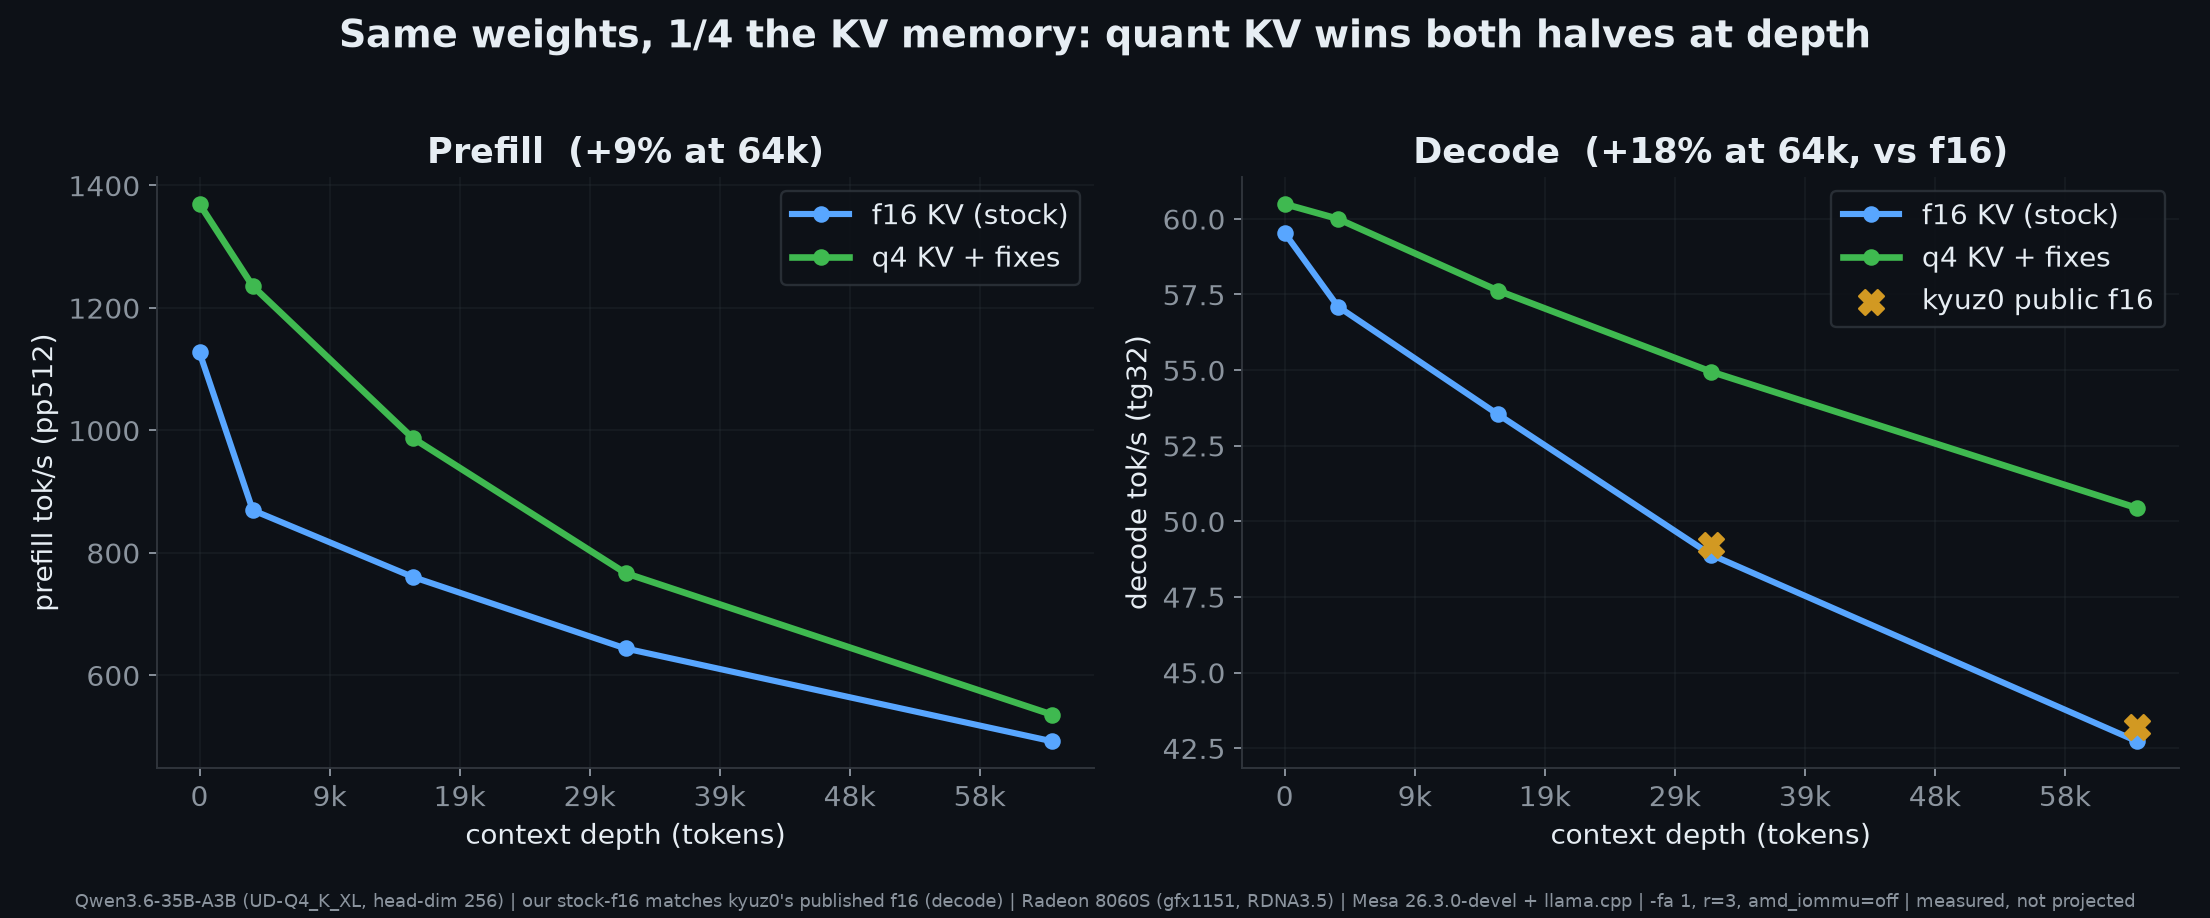
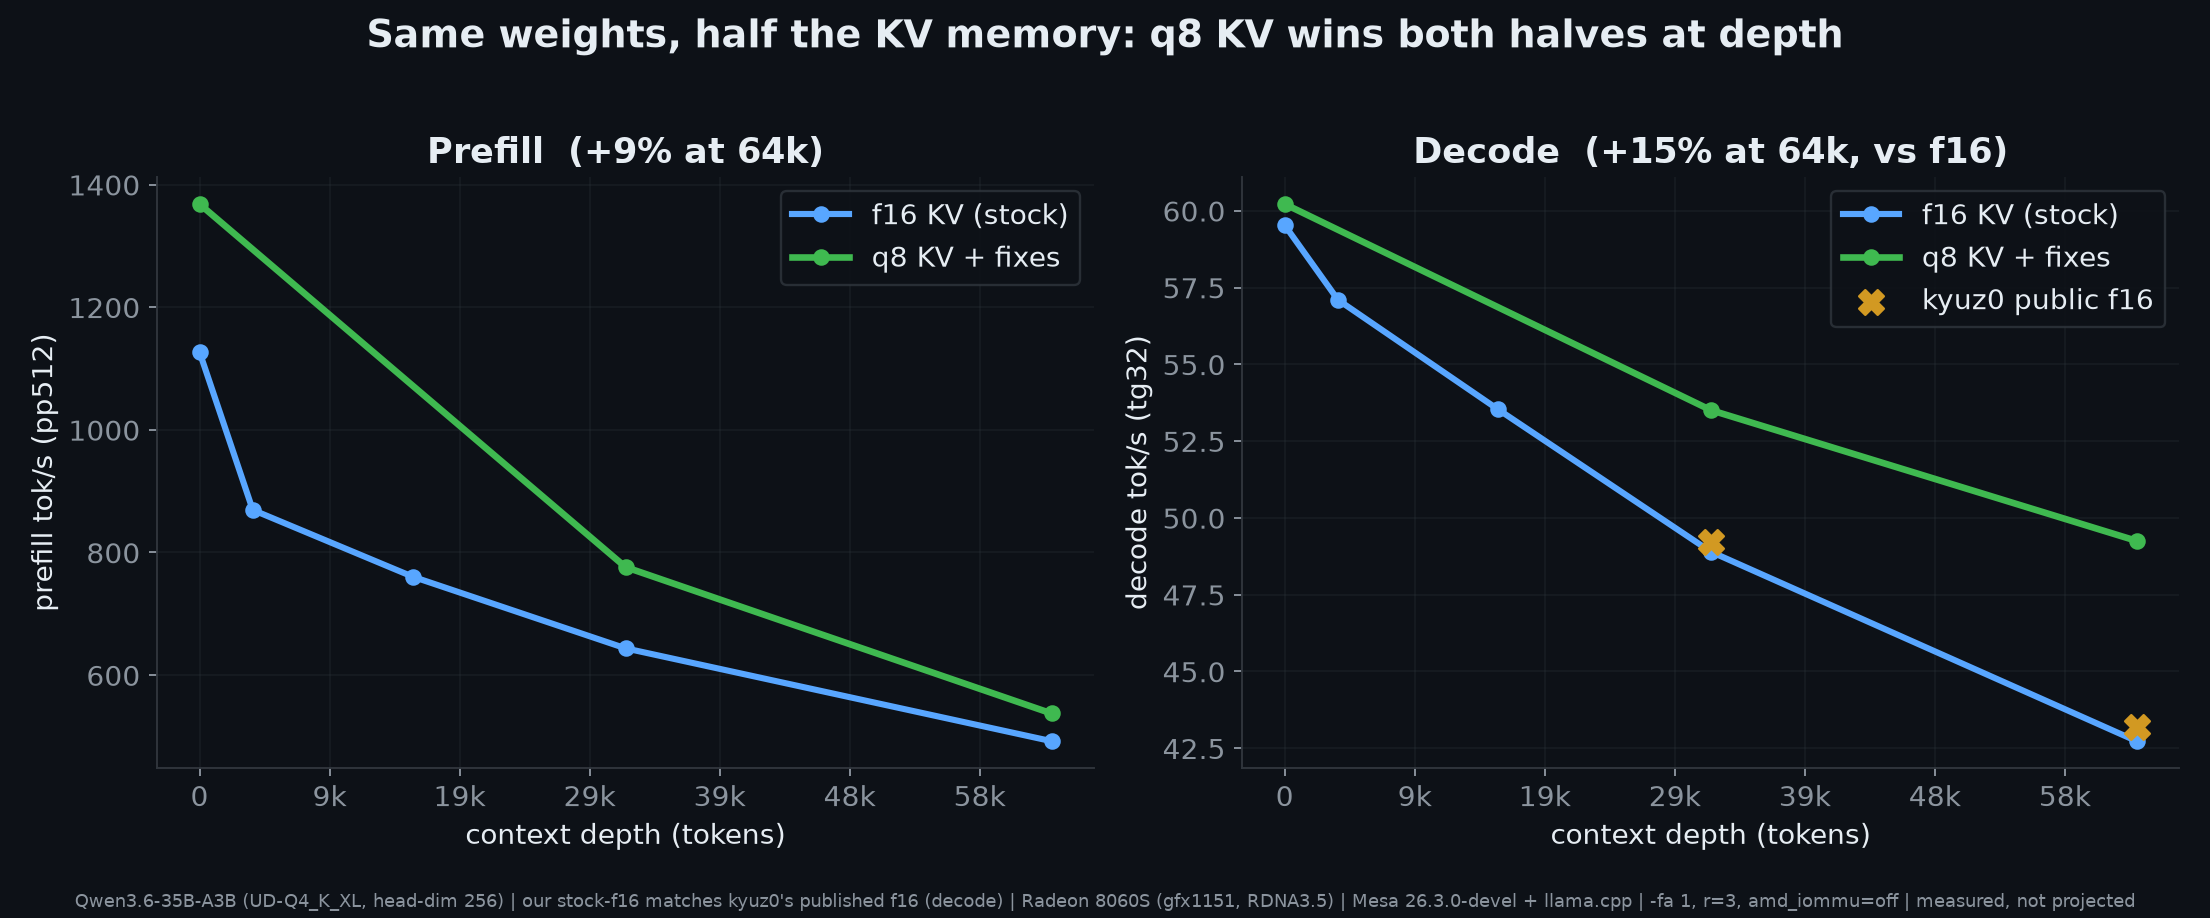
Graphs: q8-only references + new dense-7B chart; name mmid-fullstack as the build-from-source branch
- All reference graphs now f16-vs-q8 (chart 1 prefill, chart 2 same-quant, chart 3 decode)
- New chart 4: dense Qwen2.5-7B q8 vs f16 (+91% prefill / +22% decode @64k) - FA fix isn't MoE-specific
- README tables/captions switched to q8 (Coder 2.66x, 35B +9%/+15%)
- BUILD.md + README: name mmid-fullstack explicitly as the full Vulkan stack to build from source
- 'Getting the binaries': portable-tarball download (v0.1 release) + ghcr + build paths

diff --git a/benchmarks/scripts/make_graphs.py b/benchmarks/scripts/make_graphs.py
@@ -1,5 +1,5 @@
 #!/usr/bin/env python3
-import re, matplotlib
+import re, os, matplotlib
 matplotlib.use("Agg")
 import matplotlib.pyplot as plt
 from matplotlib.ticker import FuncFormatter
@@ -16,6 +16,7 @@ FOOT="Radeon 8060S (gfx1151, RDNA3.5) | Mesa 26.3.0-devel + llama.cpp | -fa 1, r
 
 def parse(path):
     out={}
+    if not os.path.exists(path): return out
     for ln in open(path):
         if "|" not in ln or ("pp" not in ln and "tg" not in ln): continue
         cells=[c.strip() for c in ln.split("|")]
@@ -38,23 +39,24 @@ def style(ax):
     ax.xaxis.set_major_formatter(FuncFormatter(lambda x,_: f"{int(x/1024)}k" if x>=1024 else "0"))
     ax.set_xlabel("context depth (tokens)")
 
-P1="/home/alloy/kvoff-p1-results"; P2="/home/alloy/kvoff-p2-results"
-def parseM(name):  # merge Phase 1 (0-32k) + Phase 2 (0,64k) per arm; iommu-off canonical
-    d=parse(f"{P1}/{name}"); d.update(parse(f"{P2}/{name}")); return d
-c_f16=parseM("base_coder30b_f16.md"); c_q4=parseM("ceil_coder30b_q4.md"); c_q8=parseM("ceil_coder30b_q8.md")
-x_f16=parseM("stock_q4kxl_f16.md"); x_q4=parseM("ceil_q4kxl_q4.md")
-qc_f16=parseM("base_qwen35b_f16.md"); qc_q8=parseM("ceil_qwen35b_q8.md"); qc_q4=parseM("ceil_qwen35b_q4.md")
+P1="/home/alloy/kvoff-p1-results"; P2="/home/alloy/kvoff-p2-results"; P3="/home/alloy/kvoff-q8supp-results"
+def parseM(name):  # merge Phase 1 (0-32k) + Phase 2 (0,64k) + q8 supplement per arm; iommu-off canonical
+    d=parse(f"{P1}/{name}"); d.update(parse(f"{P2}/{name}")); d.update(parse(f"{P3}/{name}")); return d
+# q8 is the featured reference quant (shipping-PR scope, higher KV quality, same win as q4)
+c_f16=parseM("base_coder30b_f16.md"); c_q8=parseM("ceil_coder30b_q8.md")
+x_f16=parseM("stock_q4kxl_f16.md"); x_q8=parseM("ceil_q4kxl_q8.md")
+qc_f16=parseM("base_qwen35b_f16.md"); qc_q8=parseM("ceil_qwen35b_q8.md")
+d_f16=parseM("densestock_dense7b_f16.md"); d_q8=parseM("denseceil_dense7b_q8.md")
 
 # ---- Chart 1: Coder-30B prefill headline (2.66x) ----
 fig,ax=plt.subplots(figsize=(9,5.2))
-ds,y1=curve(c_f16,"pp"); _,y2=curve(c_q4,"pp"); _,y8=curve(c_q8,"pp")
+ds,y1=curve(c_f16,"pp"); _,y8=curve(c_q8,"pp")
 ax.plot(ds,y1,"o-",color=F16,lw=2.6,ms=7,label="f16 KV (stock)")
-ax.plot(ds,y8,"s--",color=ACC,lw=2.4,ms=6,label="q8 KV + fixes")
-ax.plot(ds,y2,"o-",color=FIX,lw=2.8,ms=7,label="q4 KV + fixes")
+ax.plot(ds,y8,"o-",color=FIX,lw=2.8,ms=7,label="q8 KV + fixes")
 r=y8[-1]/y1[-1]
 ax.annotate(f"{r:.2f}x\nfaster",(ds[-1],y8[-1]),xytext=(-70,-4),textcoords="offset points",
-    color=ACC,fontweight="bold",fontsize=15,ha="center",
-    arrowprops=dict(arrowstyle="->",color=ACC,lw=1.6))
+    color=FIX,fontweight="bold",fontsize=15,ha="center",
+    arrowprops=dict(arrowstyle="->",color=FIX,lw=1.6))
 ax.set_title("Quantized KV prefill is 2.66x faster than f16 at 64k context")
 ax.set_ylabel("prefill throughput (tok/s)"); style(ax)
 ax.legend(facecolor=BG,edgecolor=GRID,labelcolor=FG,loc="upper right")
@@ -63,19 +65,19 @@ fig.tight_layout(rect=[0,.04,1,1]); fig.savefig("/home/alloy/graphs/01_coder30b_
 
 # ---- Chart 2: 35B Q4_K_XL same-quant (prefill + decode) + kyuz0 decode overlay ----
 fig,(a1,a2)=plt.subplots(1,2,figsize=(13,5.4))
-ds,y1=curve(x_f16,"pp"); _,y2=curve(x_q4,"pp")
+ds,y1=curve(x_f16,"pp"); ds8,y2=curve(x_q8,"pp")
 a1.plot(ds,y1,"o-",color=F16,lw=2.6,ms=6,label="f16 KV (stock)")
-a1.plot(ds,y2,"o-",color=FIX,lw=2.8,ms=6,label="q4 KV + fixes")
+a1.plot(ds8,y2,"o-",color=FIX,lw=2.8,ms=6,label="q8 KV + fixes")
 a1.set_title("Prefill  (+9% at 64k)"); a1.set_ylabel("prefill tok/s (pp512)"); style(a1)
 a1.legend(facecolor=BG,edgecolor=GRID,labelcolor=FG)
-ds,y1=curve(x_f16,"tg"); _,y2=curve(x_q4,"tg")
+ds,y1=curve(x_f16,"tg"); ds8,y2=curve(x_q8,"tg")
 a2.plot(ds,y1,"o-",color=F16,lw=2.6,ms=6,label="f16 KV (stock)")
-a2.plot(ds,y2,"o-",color=FIX,lw=2.8,ms=6,label="q4 KV + fixes")
+a2.plot(ds8,y2,"o-",color=FIX,lw=2.8,ms=6,label="q8 KV + fixes")
 # kyuz0 published f16 reference points
 a2.scatter([32768,65536],[49.2,43.2],color=PUB,marker="X",s=110,zorder=5,label="kyuz0 public f16")
-a2.set_title("Decode  (+18% at 64k, vs f16)"); a2.set_ylabel("decode tok/s (tg32)"); style(a2)
+a2.set_title("Decode  (+15% at 64k, vs f16)"); a2.set_ylabel("decode tok/s (tg32)"); style(a2)
 a2.legend(facecolor=BG,edgecolor=GRID,labelcolor=FG)
-fig.suptitle("Same weights, 1/4 the KV memory: quant KV wins both halves at depth",fontsize=16,fontweight="bold")
+fig.suptitle("Same weights, half the KV memory: q8 KV wins both halves at depth",fontsize=16,fontweight="bold")
 fig.text(.5,.012,"Qwen3.6-35B-A3B (UD-Q4_K_XL, head-dim 256) | our stock-f16 matches kyuz0's published f16 (decode) | "+FOOT,ha="center",color=MUT,fontsize=7.6)
 fig.tight_layout(rect=[0,.04,1,.96]); fig.savefig("/home/alloy/graphs/02_35b_q4kxl_samequant.png"); plt.close(fig)
 
@@ -89,6 +91,22 @@ ax.set_ylabel("decode throughput (tok/s)"); style(ax)
 ax.legend(facecolor=BG,edgecolor=GRID,labelcolor=FG,ncol=2)
 fig.text(.5,.012,"f16 KV (dashed) vs q8 KV + fixes (solid); q8 = shipping-PR scope + higher quality, same win as q4 | "+FOOT,ha="center",color=MUT,fontsize=7.8)
 fig.tight_layout(rect=[0,.04,1,1]); fig.savefig("/home/alloy/graphs/03_decode_both.png"); plt.close(fig)
+
+# ---- Chart 4: dense-7B f16 vs q8 (the FA dequant-once fix is not MoE-specific) ----
+fig,(a1,a2)=plt.subplots(1,2,figsize=(13,5.4))
+ds,y1=curve(d_f16,"pp"); ds8,y2=curve(d_q8,"pp")
+a1.plot(ds,y1,"o-",color=F16,lw=2.6,ms=6,label="f16 KV (stock)")
+a1.plot(ds8,y2,"o-",color=FIX,lw=2.8,ms=6,label="q8 KV + fixes")
+a1.set_title(f"Prefill  (+{y2[-1]/y1[-1]*100-100:.0f}% at 64k)"); a1.set_ylabel("prefill tok/s (pp512)"); style(a1)
+a1.legend(facecolor=BG,edgecolor=GRID,labelcolor=FG)
+ds,y1=curve(d_f16,"tg"); ds8,y2=curve(d_q8,"tg")
+a2.plot(ds,y1,"o-",color=F16,lw=2.6,ms=6,label="f16 KV (stock)")
+a2.plot(ds8,y2,"o-",color=FIX,lw=2.8,ms=6,label="q8 KV + fixes")
+a2.set_title(f"Decode  (+{y2[-1]/y1[-1]*100-100:.0f}% at 64k)"); a2.set_ylabel("decode tok/s (tg32)"); style(a2)
+a2.legend(facecolor=BG,edgecolor=GRID,labelcolor=FG)
+fig.suptitle("Dense model too: Qwen2.5-7B — the FA dequant-once fix is not MoE-specific",fontsize=15,fontweight="bold")
+fig.text(.5,.012,"Qwen2.5-7B-Instruct Q4_K_M (dense, head-dim 128) | "+FOOT,ha="center",color=MUT,fontsize=7.8)
+fig.tight_layout(rect=[0,.04,1,.96]); fig.savefig("/home/alloy/graphs/04_dense7b_f16_vs_q8.png"); plt.close(fig)
 
 print("wrote:")
 import os

diff --git a/README.md b/README.md
@@ -17,9 +17,22 @@ evidence pack.
 
 ## Getting the binaries
 
-The binaries and bundled driver (~200 MB) are shipped via GitHub Releases (the portable Vulkan tarball)
-and a container registry, not tracked in git. To build from source instead, see **[BUILD.md](BUILD.md)**
-and run `build-from-source.sh`. The commands below assume the `vulkan/` dir is populated.
+Three ways — the first two need **no build and no Docker**:
+
+**1. Portable tarball (recommended for a quick start).** Self-contained — bundles the RADV driver, so it
+doesn't use the host's Mesa; only needs `libvulkan1` + read access to `/dev/dri`:
+```
+curl -L https://github.com/Nathanw1014/strix-halo-llamacpp/releases/download/v0.1/strix-halo-llamacpp-vulkan-portable.tar.gz | tar xz
+./vulkan/llama-server -m /path/to/MODEL.gguf -ngl 99 -fa 1 -ctk q8_0 -ctv q8_0 --host 0.0.0.0
+```
+
+**2. Container.** `docker pull ghcr.io/nathanw1014/strix-halo-llamacpp:vulkan` (see [Quickstart](#quickstart)).
+
+**3. Build from source.** Build the **`mmid-fullstack`** branch of the
+[fork](https://github.com/Nathanw1014/llama.cpp) (the complete Vulkan stack) — see **[BUILD.md](BUILD.md)**
+for the exact toolchain; `build-from-source.sh` then assembles the built binaries + driver into this layout.
+
+The tarball (32 MB) and container images are shipped via GitHub Releases / ghcr, not tracked in git.
 
 ## The fixes
 
@@ -118,23 +131,24 @@ stopped, **`amd_iommu=off`** (see host tuning). "fixes" = dequant-once + q4 tran
 
 ![Qwen3-Coder-30B-A3B prefill: quantized KV is 2.66x faster than f16 at 64k](graphs/01_coder30b_prefill_2.66x.png)
 
-**Qwen3-Coder-30B-A3B (head-dim 128), prefill pp512, stock f16 vs fixes + q4 KV:**
+**Qwen3-Coder-30B-A3B (head-dim 128), prefill pp512, stock f16 vs fixes + q8 KV:**
 
-| context | stock f16 | fixes + q4 KV | gain |
+| context | stock f16 | fixes + q8 KV | gain |
 |---:|---:|---:|---:|
-| 0 | 1163 | 1209 | +4% |
-| 16k | 377 | 504 | +34% |
-| 32k | 205 | 322 | +57% |
-| 64k | 71.9 | 190 | **2.64x** |
+| 0 | 1163 | 1218 | +5% |
+| 16k | 377 | 505 | +34% |
+| 32k | 205 | 323 | +58% |
+| 64k | 71.9 | 191 | **2.66x** |
 
-(q8 KV reaches **2.66x** at 64k — same win, higher KV quality, and it's the shipping PR's scope. q4 shown
-here since it's the recommended long-context default.)
+(q4 KV lands the same win at **1/4** the KV memory — 190 t/s / 2.64x at 64k — so use q4 for maximum context,
+q8 for maximum KV quality. We reference q8 here: it's the shipping PR's scope and the higher-quality cache.)
 
 ![Qwen3.6-35B-A3B Q4_K_XL, same weights: quant KV vs f16 on prefill and decode, against the best public f16](graphs/02_35b_q4kxl_samequant.png)
 
-**Qwen3.6-35B-A3B (head-dim 256, UD-Q4_K_XL, same weights), at 64k:** quantized KV gives **+9% prefill
-and +18% decode** vs stock f16, at **1/4 the KV memory**. Our stock-f16 decode (42.7 t/s @64k) matches the
-best public f16 numbers (kyuz0, 43.2) on the same model, so the quant-KV win is real, not a baseline artifact.
+**Qwen3.6-35B-A3B (head-dim 256, UD-Q4_K_XL, same weights), at 64k:** q8 KV gives **+9% prefill and +15%
+decode** vs stock f16 at **1/2 the KV memory** (q4 gives +18% decode at 1/4). Our stock-f16 decode (42.7 t/s
+@64k) matches the best public f16 numbers (kyuz0, 43.2) on the same model, so the quant-KV win is real, not a
+baseline artifact.
 
 ![Decode throughput vs depth: quantized KV also generates faster than f16 at depth, both models](graphs/03_decode_both.png)
 
@@ -142,6 +156,11 @@ best public f16 numbers (kyuz0, 43.2) on the same model, so the quant-KV win is 
 with depth (dramatic at head-dim 128, parity-restoring at head-dim 256). The mmid row-list fix adds
 MoE-prefill speedup on top (model-dependent). Decode: quantized KV is both smaller and faster at depth.
 Net guidance: use `-ctk q4_0 -ctv q4_0` for long context.
+
+![Dense model Qwen2.5-7B: q8 KV + fixes vs stock f16, prefill and decode at depth](graphs/04_dense7b_f16_vs_q8.png)
+
+**Dense models too:** the FA dequant-once fix isn't MoE-specific. On dense Qwen2.5-7B (head-dim 128), q8 KV +
+fixes gives **+91% prefill and +22% decode at 64k** vs stock f16 — same mechanism, same win.
 
 Full matrices, raw `llama-bench` output, methodology, and correctness gates are in
 [benchmarks/BENCHMARKS.md](benchmarks/BENCHMARKS.md); the per-fix branch inventory and the honest

diff --git a/BUILD.md b/BUILD.md
@@ -34,8 +34,10 @@ ninja -C build-rel
 
 ## 3. llama.cpp Vulkan (the fixes)
 
-Check out the combined Strix Halo branch of the fork (dequant-once + all-quant transpose + mmid), then:
+Check out the combined Strix Halo branch **`mmid-fullstack`** of the fork (dequant-once + all-quant
+transpose + the full mmid stack — this is the complete Vulkan stack the toolbox ships), then build:
 ```
+git clone https://github.com/Nathanw1014/llama.cpp && cd llama.cpp && git checkout mmid-fullstack
 cmake -B build-vk -DGGML_VULKAN=ON -DCMAKE_BUILD_TYPE=Release -DGGML_NATIVE=ON -DLLAMA_CURL=OFF \
   -DVulkan_INCLUDE_DIR=<headers-with-vulkan-and-spirv> \
   -DVulkan_GLSLC_EXECUTABLE=<current-glslc>
